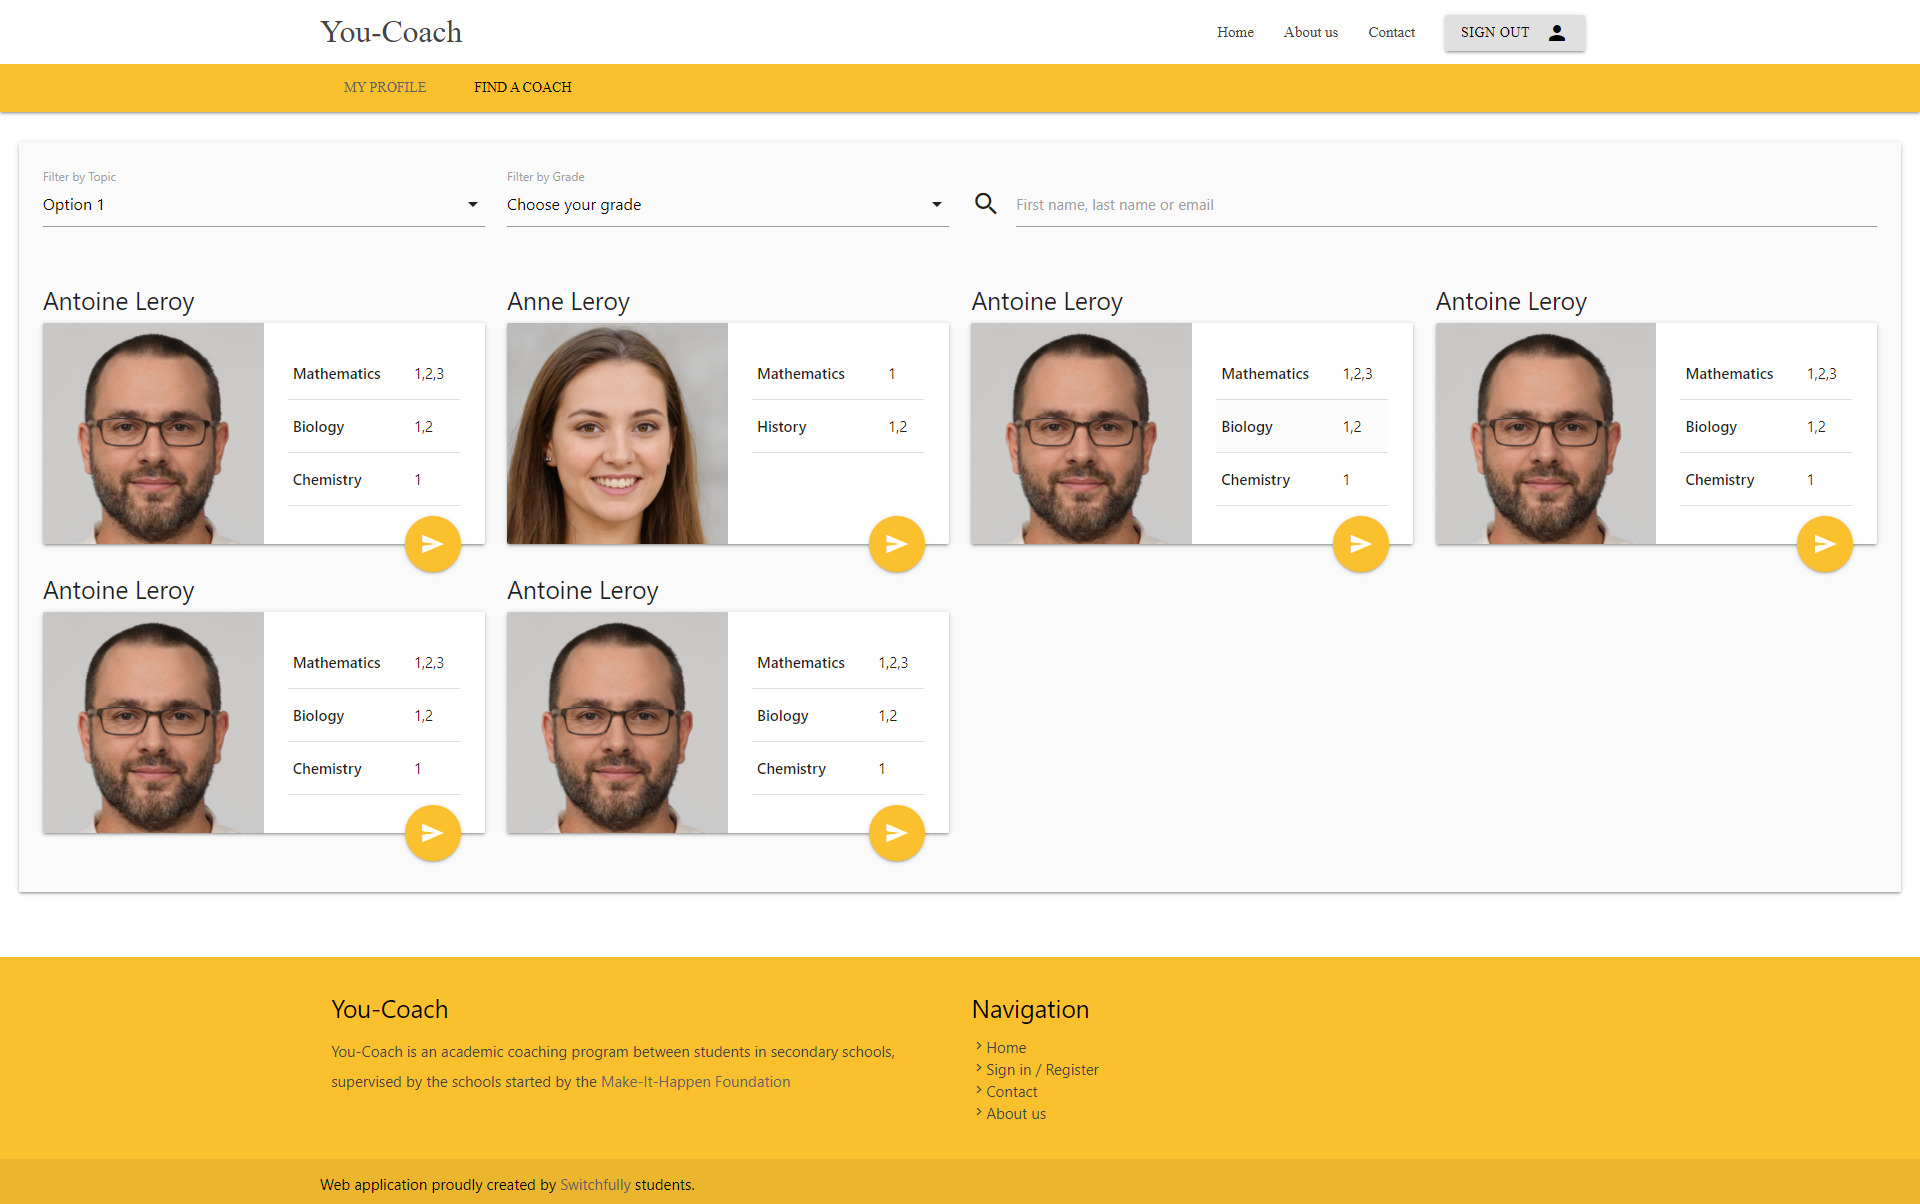
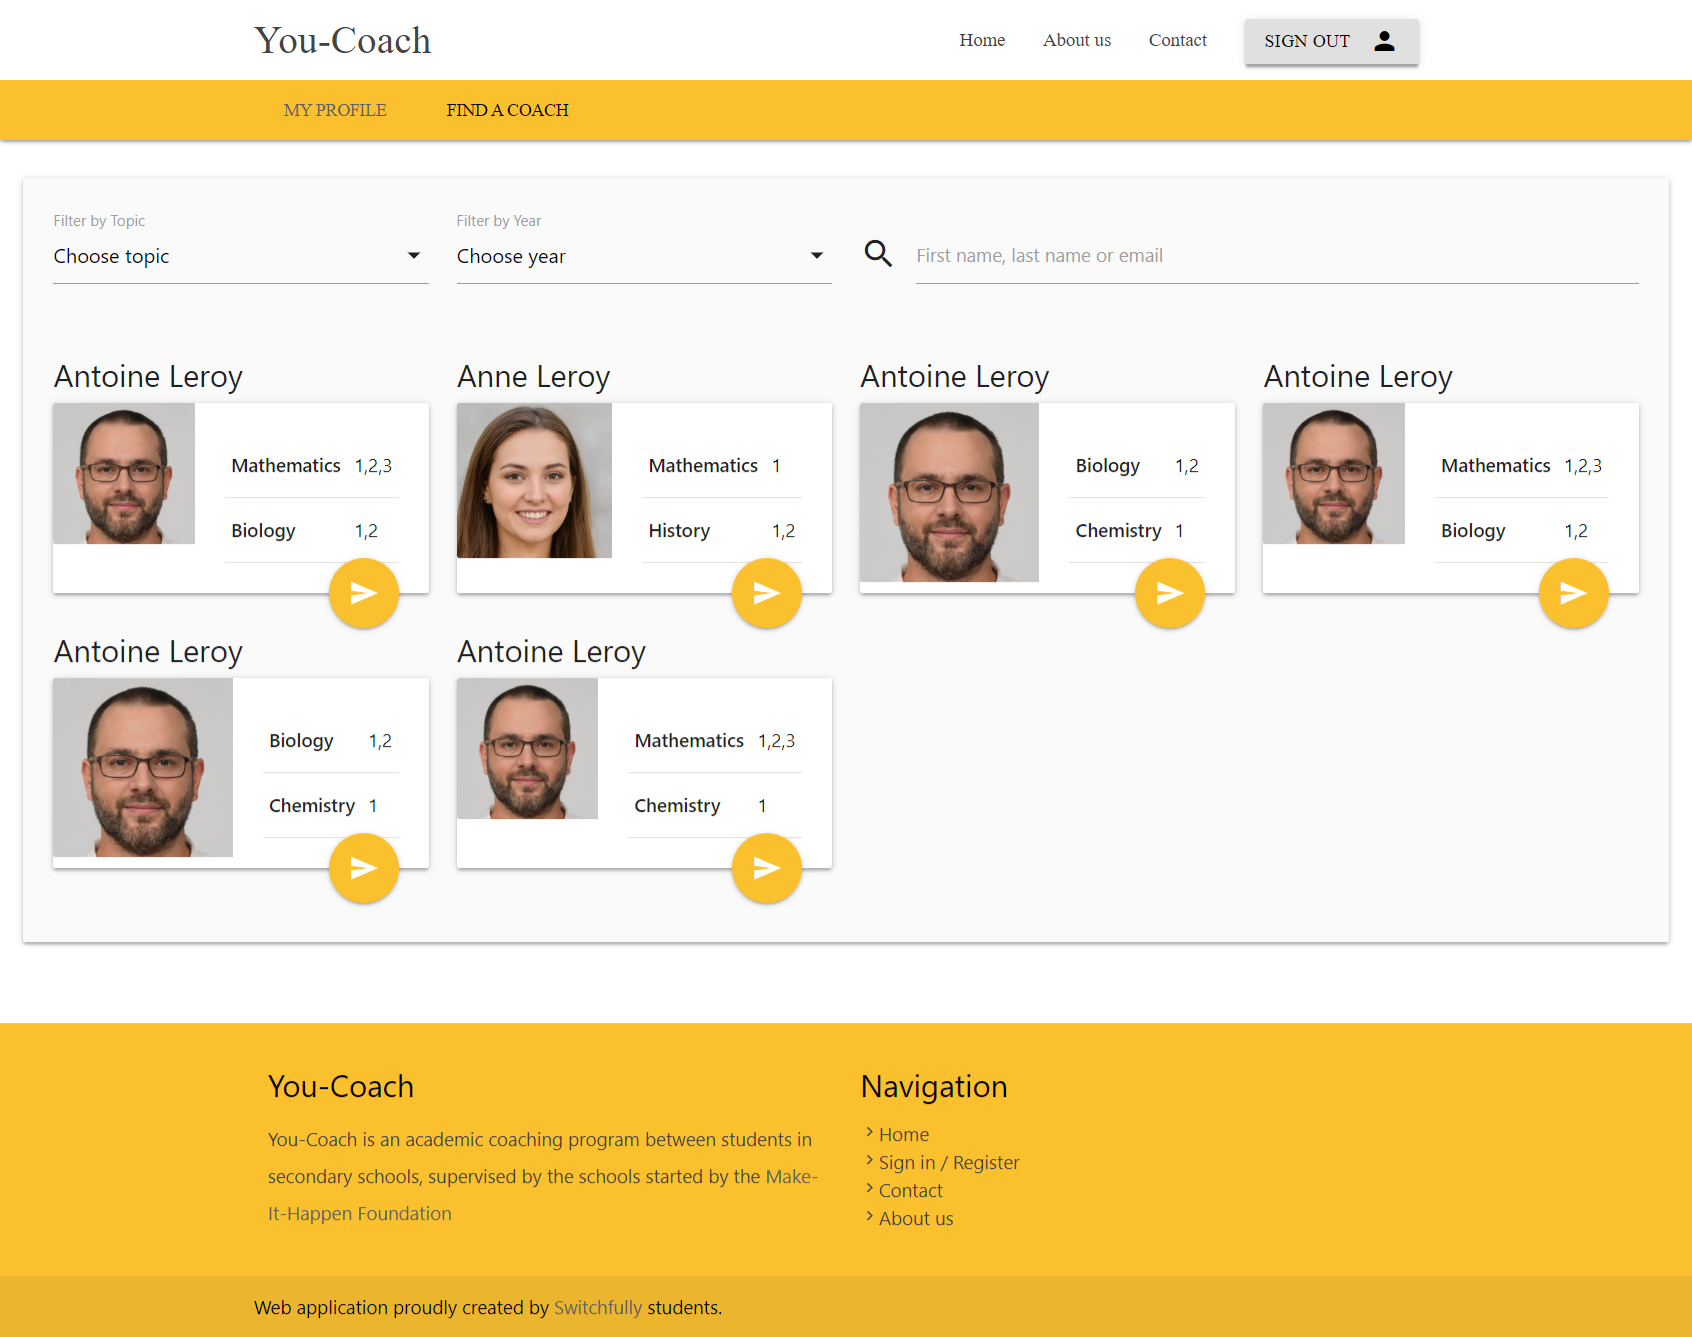
story 9,10: grade > year

diff --git a/design/coach-my-profile.html b/design/coach-my-profile.html
@@ -64,10 +64,6 @@
             <div class="content-container">
 
                 <section class="card-panel grey lighten-5">
-                    <div class="right">
-                        <a class="waves-effect waves-light btn-large btn-floating teal lighten-3"><i
-                                class="material-icons left">edit</i>Edit</a>
-                    </div>
                     <h5>Profile Information</h5>
                     <div class="divider"></div>
                     <div class="row">
@@ -78,18 +74,6 @@
                         <div class="col l10 m10 s12">
                             <table class="highlight">
                                 <tbody>
-                                <tr>
-                                    <td><strong>Coach XP</strong></td>
-                                    <td>
-                                        <div class="center">
-                                            <span class="new badge teal lighten-3 teal-text text-darken-3"
-                                                  data-badge-caption="(Silver)">300/500</span>
-                                        </div>
-                                        <div class="progress teal">
-                                            <div class="determinate" style="width: 60%"></div>
-                                        </div>
-                                    </td>
-                                </tr>
                                 <tr>
                                     <td><strong>First name</strong></td>
                                     <td>Antoine</td>
@@ -105,6 +89,37 @@
                                 <tr>
                                     <td><strong>Class</strong></td>
                                     <td>4 - Latin Science</td>
+                                </tr>
+                                </tbody>
+                            </table>
+                        </div>
+                    </div>
+                </section>
+
+                <div class="divider"></div>
+
+                <section class="card-panel grey lighten-5">
+                    <div class="right">
+                        <a class="waves-effect waves-light btn-large btn-floating teal lighten-3"><i
+                                class="material-icons left">edit</i>Edit</a>
+                    </div>
+                    <h5>Coach Information</h5>
+                    <div class="divider"></div>
+                    <div class="row">
+                        <div class="col l12 m12 s12">
+                            <table class="highlight">
+                                <tbody>
+                                <tr>
+                                    <td><strong>Coach XP</strong></td>
+                                    <td>
+                                        <div class="center">
+                                            <span class="new badge teal lighten-3 teal-text text-darken-3"
+                                                  data-badge-caption="(Silver)">300/500</span>
+                                        </div>
+                                        <div class="progress teal">
+                                            <div class="determinate" style="width: 60%"></div>
+                                        </div>
+                                    </td>
                                 </tr>
                                 <tr>
                                     <td><strong>Introduction</strong></td>
@@ -141,11 +156,13 @@
                                     <td><strong>Mathematics</strong></td>
                                     <td>
                                         <div class="center">
-                                            <span class="new badge teal lighten-3 teal-text text-darken-3"
-                                                  data-badge-caption="(Grade)">1,2,3</span>
-                                        </div>
-                                        <div class="progress">
-                                            <div class="determinate" style="width: 100%"></div>
+                                            <a class="btn-floating disabled"><i class="material-icons">filter_1</i></a>
+                                            <a class="btn-floating disabled"><i class="material-icons">filter_2</i></a>
+                                            <a class="btn-floating disabled"><i class="material-icons">filter_3</i></a>
+                                            <a class="btn-floating"><i class="material-icons">filter_4</i></a>
+                                            <a class="btn-floating disabled"><i class="material-icons">filter_5</i></a>
+                                            <a class="btn-floating disabled"><i class="material-icons">filter_6</i></a>
+                                            <a class="btn-floating disabled"><i class="material-icons">filter_7</i></a>
                                         </div>
                                     </td>
                                 </tr>
@@ -153,23 +170,13 @@
                                     <td><strong>Biology</strong></td>
                                     <td>
                                         <div class="center">
-                                            <span class="new badge teal lighten-3 teal-text text-darken-3"
-                                                  data-badge-caption="(Grade)">1,2</span>
-                                        </div>
-                                        <div class="progress">
-                                            <div class="determinate" style="width: 66%"></div>
-                                        </div>
-                                    </td>
-                                </tr>
-                                <tr>
-                                    <td><strong>Chemistry</strong></td>
-                                    <td>
-                                        <div class="center">
-                                            <span class="new badge teal lighten-3 teal-text text-darken-3"
-                                                  data-badge-caption="(Grade)">1</span>
-                                        </div>
-                                        <div class="progress">
-                                            <div class="determinate" style="width: 33%"></div>
+                                            <a class="btn-floating disabled"><i class="material-icons">filter_1</i></a>
+                                            <a class="btn-floating disabled"><i class="material-icons">filter_2</i></a>
+                                            <a class="btn-floating disabled"><i class="material-icons">filter_3</i></a>
+                                            <a class="btn-floating disabled"><i class="material-icons">filter_4</i></a>
+                                            <a class="btn-floating"><i class="material-icons">filter_5</i></a>
+                                            <a class="btn-floating"><i class="material-icons">filter_6</i></a>
+                                            <a class="btn-floating disabled"><i class="material-icons">filter_7</i></a>
                                         </div>
                                     </td>
                                 </tr>

diff --git a/design/coachee-find-a-coach.html b/design/coachee-find-a-coach.html
@@ -56,21 +56,25 @@
                         <div class="row">
                             <div class="input-field col l3 m6 s12">
                                 <select>
-                                    <option value="" disabled selected>Choose your topic</option>
-                                    <option value="1">Option 1</option>
-                                    <option value="2">Option 2</option>
-                                    <option value="3">Option 3</option>
+                                    <option value="" disabled selected>Choose topic</option>
+                                    <option value="1">Biology</option>
+                                    <option value="2">Chemistry</option>
+                                    <option value="3">Mathematics</option>
                                 </select>
                                 <label>Filter by Topic</label>
                             </div>
                             <div class="input-field col l3 m6 s12">
                                 <select multiple>
-                                    <option value="" disabled selected>Choose your grade</option>
-                                    <option value="1">Option 1</option>
-                                    <option value="2">Option 2</option>
-                                    <option value="3">Option 3</option>
+                                    <option value="" disabled selected>Choose year</option>
+                                    <option value="1">year 1</option>
+                                    <option value="2">year 2</option>
+                                    <option value="3">year 3</option>
+                                    <option value="1">year 4</option>
+                                    <option value="2">year 5</option>
+                                    <option value="3">year 6</option>
+                                    <option value="3">year 7</option>
                                 </select>
-                                <label>Filter by Grade</label>
+                                <label>Filter by Year</label>
                             </div>
                             <div class="input-field col l6 m12 s12">
                                 <i class="material-icons prefix">search</i>
@@ -100,10 +104,6 @@
                                             <tr>
                                                 <td><strong>Biology</strong></td>
                                                 <td>1,2</td>
-                                            </tr>
-                                            <tr>
-                                                <td><strong>Chemistry</strong></td>
-                                                <td>1</td>
                                             </tr>
                                             </tbody>
                                         </table>
@@ -152,10 +152,6 @@
                                         <table class="highlight responsive-table">
                                             <tbody>
                                             <tr>
-                                                <td><strong>Mathematics</strong></td>
-                                                <td>1,2,3</td>
-                                            </tr>
-                                            <tr>
                                                 <td><strong>Biology</strong></td>
                                                 <td>1,2</td>
                                             </tr>
@@ -190,10 +186,6 @@
                                                 <td><strong>Biology</strong></td>
                                                 <td>1,2</td>
                                             </tr>
-                                            <tr>
-                                                <td><strong>Chemistry</strong></td>
-                                                <td>1</td>
-                                            </tr>
                                             </tbody>
                                         </table>
                                     </div>
@@ -213,10 +205,6 @@
                                     <div class="card-content">
                                         <table class="highlight responsive-table">
                                             <tbody>
-                                            <tr>
-                                                <td><strong>Mathematics</strong></td>
-                                                <td>1,2,3</td>
-                                            </tr>
                                             <tr>
                                                 <td><strong>Biology</strong></td>
                                                 <td>1,2</td>
@@ -247,10 +235,6 @@
                                             <tr>
                                                 <td><strong>Mathematics</strong></td>
                                                 <td>1,2,3</td>
-                                            </tr>
-                                            <tr>
-                                                <td><strong>Biology</strong></td>
-                                                <td>1,2</td>
                                             </tr>
                                             <tr>
                                                 <td><strong>Chemistry</strong></td>

diff --git a/stories/story-6-my-coach-profile.md b/stories/story-6-my-coach-profile.md
@@ -6,15 +6,18 @@
      - First name (shared with my profile)  (coach-profile-information.label.first-name)
      - Last name (shared with my profile) (coach-profile-information.label.last-name)
      - Email (shared with my profile) (coach-profile-information.label.email)
-     - Introduction (new)  (coach-profile-information.label.introduction)
-     - Availability (new) (coach-profile-information.label.availability)
      - class (out of scope, story 35)
-     - coach XP (out of scope, story 18)
+     - role (shared with my profile) (coach-profile-information.label.role)
      - picture (url)
      
+ - Coach information section of coach profile contains:
+      - Coach XP (out of scope, story 18)
+      - Introduction (coach-information.label.introduction)
+      - Availability (coach-information.label.availability)
+      
   - Coaching topics section of coach profile contains:
     - topic
-    - grade per topic
+    - year
 
   - in scope
       - Visual shift between my profile and my coach profile (color scheme)
@@ -23,11 +26,11 @@
         - administrator can access coach profile of a coach via url
       - creation of 'My Coach Profile' menu (my-coach-profile-menu.title)
       - adding Profile Information section 
+      - adding Coach information section
       - adding coaching topics section
       
   - Open Questions
-       - structure of topics and grades?
-       - split info already on my profile and coach specific info?
+
 
  - mockups
      - ![signin](../img/my-coach-profile.png)

diff --git a/stories/story-7-edit-my-coach-profile.md b/stories/story-7-edit-my-coach-profile.md
@@ -2,19 +2,17 @@
 
 **As a coach I want to be able to edit my coach profile (profile information) displayed to coachees**
 
- - coach can edit
-     - First name (shared with my profile)
-     - Last name (shared with my profile)
-     - email (shared with my profile)
-     - picture (url, shared with my profile)
-     - Introduction
-     - Availability     
-     
-- admin can edit
-     - all fields
+
+ - profile information
+    - cannot be added from the coach profile screen
+    
+ - Coach information
+     - both coach and administrator can edit   
+         - Introduction
+         - Availability     
      
  - in scope
-     - Creation of the edit 'My Profile' page
+     - Creation of the edit 'Coach information' page
      - Save button 
      - Cancel button
       

diff --git a/stories/story-10-filter-overview-coaches.md b/stories/story-10-filter-overview-coaches.md
@@ -5,16 +5,13 @@
 - Find a coach page
     - filter by topic (coach-overview.label.filter-topic)
         - multiple select dropdown (coach-overview.label.filter-topic-dropdown)
-    - filter by grade (coach-overview.label.filter-grade)
-        - multiple select dropdown (coach-overview.label.filter-grade-dropdown)
+    - filter by grade (coach-overview.label.filter-year)
+        - multiple select dropdown (coach-overview.label.filter-year-dropdown)
              
   - in scope
       - adding filter functionality to the 'Find a coach' page
 
   - Open Questions
-    - multiple select dropdown on topic?
-    - multiple select dropdown on grade?
-    - structure of topic, grade?  
 
  - mockups
      - ![signin](../img/find-a-coach.png)

diff --git a/stories/story-37-edit-coaching-topics.md b/stories/story-37-edit-coaching-topics.md
@@ -3,8 +3,11 @@
 **As an administrator I want to be able to edit the coaching topics of a coach profile**
    
 - admin can edit
-     - topics (typeahead)
-     - grades 
+     - topic
+        - typeahead/autocomplete (to give flexibility, bu to have better data quality)
+        - only two topics can be provided
+     - year
+        - 1 to 7
      
  - in scope
      - Creation of the edit 'coaching topics' page
@@ -12,4 +15,3 @@
      - Cancel button
       
  - Open Questions
-    - grades?

diff --git a/stories/story-4-edit-profile-information.md b/stories/story-4-edit-profile-information.md
@@ -6,7 +6,7 @@
      - Last name (profile-information.label.last-name)
      - email (profile-information.label.email)
         - alert, your email address is used to sign-in (profile-information.message.change-email)
-     - role (disabled) (profile-information.label.role)
+     - role (disabled)(profile-information.label.role)
      - picture (url)  (profile-information.label.profile-picture)
      
 - admin can edit

diff --git a/stories/story-9-overview-coaches.md b/stories/story-9-overview-coaches.md
@@ -5,9 +5,9 @@
 - Find a coach page
     - an overview of all coaches (users with the coach role)
         - name (first name + last name)
-        - topics + grade
+        - topics + year
         - picture
-    - filter by topic and grade (out of scope, story 10)
+    - filter by topic and year (out of scope, story 10)
     - search by name or email (out of scope, story 11)
      
   - in scope

diff --git a/stories/overview.md b/stories/overview.md
@@ -3,11 +3,11 @@
 
 *TO DO*
 
-- email adjust is possible (with warning)
-- add admin email to become a coach page
 - role based (become a coach)
-- typeahead for topics
 
+- typeahead for topics
+- restriction of # of topics (max 2)
+- grade 1-7
 
 - how to contact the admin? as a coach? or contact admin on homepage?
 

diff --git a/stories/story-3-profile-information.md b/stories/story-3-profile-information.md
@@ -6,6 +6,8 @@
      - First name (profile-information.label.first-name)
      - Last name (profile-information.label.last-name)
      - Email (profile-information.label.email)
+     - class (out of scope)
+     - role (out of scope)
      - picture (via external url)  
       
  - in scope

diff --git a/stories/story-34-access-to-my-profile.md b/stories/story-34-access-to-my-profile.md
@@ -2,7 +2,7 @@
  **As a coachee I want only myself and the admin to have access to my 'profile information'**
 
  - Profile information contains in addition:
-     - role
+     - role (profile-information.label.role)
         - coachee
         - coach
         - administrator
